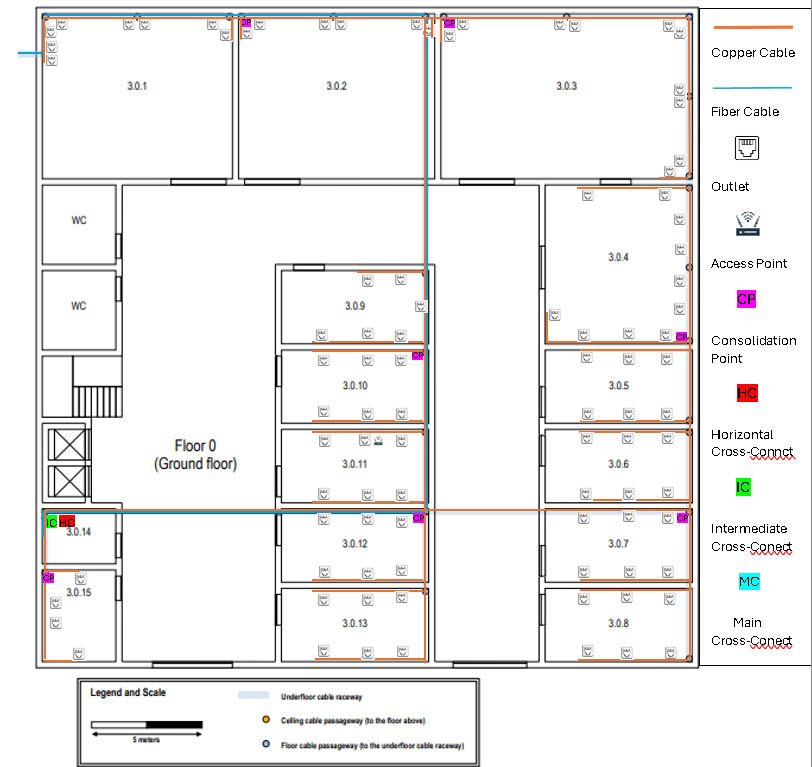
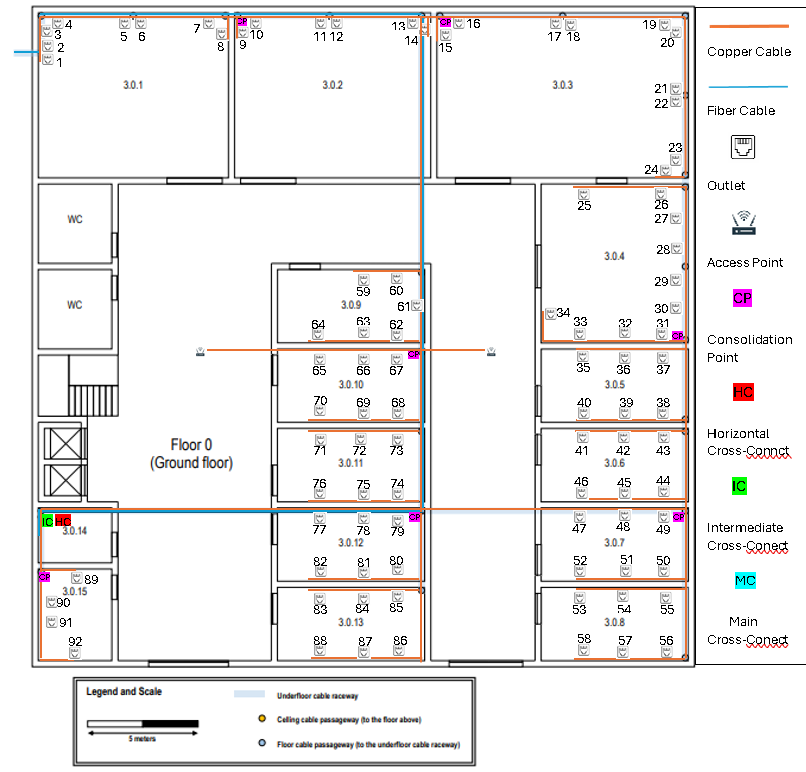
made some changes on the access points of building 3, also added exel file with all the measurements of the building, and made readme with all the information related to building 3

diff --git a/doc/Sprint_1/1230927/readMe.md b/doc/Sprint_1/1230927/readMe.md
@@ -1,0 +1,256 @@
+## Building 3 ##
+
+### General Information ###
+
+- The buildings 3, have the same horizontal dimensions, approximately, 30 x 30 meters.
+- A full wireless LAN (Wi-Fi) coverage is required for this building on both floors.
+
+
+## 1. Information ##
+
+### Floor 0 ###
+
+- The ground floor has an underfloor cable raceway connected to the external technical ditch.
+- Access to the underfloor cable raceway is available at points marked over the plan.
+- The ceiling height on this floor is four meters.
+- Room 3.0.14 is a storage area that may be used to house a cross-connect, no network outlets are required there, and the same applies to restrooms, halls, and corridors.
+- Rooms 3.0.1, 3.0.2, and 3.0.3 have specific purposes and the only network outlets required there are two near each floor cable passageway.
+- Elsewhere, the standard number of network outlets per area ratio is to be enforced.
+
+### Floor 1  ###
+
+- The ceiling height on this floor is three meters, but there is a removable dropped ceiling, placed 2.5 meters from the ground, covering this entire floor.
+- The empty space over the dropped ceiling is perfect to install cable raceways and wireless access-points.
+- Room 3.1.1 is a wireless only area, no network outlets are required, but on the other hand the wireless LAN coverage (Wi-Fi) should be highly effective here.
+- Shared areas and restrooms are not required to have network outlets, other rooms should be provided with the standard number of network outlets.
+- Room 3.1.8 is a storage area, no network outlets are required there as well, and it may be used to house a cross-connect and other network infrastructure hardware.
+
+
+## 2. Measurements ##
+
+**Excel with all the details about measurements**
+- [Download Measurements_Building3.xlsx](Measurements_Building3.xlsx)
+
+### Floor 0 ###
+
+![MeasurementsBuilding3_Floor0](MeasurementsBuilding3_floor0.png)
+
+| Rooms  | Area in m2 | Nº outlets |
+|--------|------------|------------|
+| 3.0.1  | 65.3       | 8          |
+| 3.0.2  | 66         | 6          |
+| 3.0.3  | 86.3       | 10         |
+| 3.0.4  | 47.6       | 10         |
+| 3.0.5  | 22.1       | 6          |
+| 3.0.6  | 22.1       | 6          |
+| 3.0.7  | 22.1       | 6          |
+| 3.0.8  | 22.1       | 6          |
+| 3.0.9  | 22.1       | 6          |
+| 3.0.10 | 22.1       | 6          |
+| 3.0.11 | 22.1       | 6          |
+| 3.0.12 | 22.1       | 6          |
+| 3.0.13 | 22.1       | 6          |
+| 3.0.14 | 8.3        | 0          |
+| 3.0.15 | 13.9       | 4          |
+
+***Total Outlets:*** 92
+
+### Floor 1 ###
+
+![MeasurementsBuilding3_Floor1](MeasurementsBuilding3_floor1.png)
+
+| Rooms  | Area in m2 | Nº outlets |
+|--------|------------|------------|
+| 3.1.1  | 25.49      | 0          |
+| 3.1.2  | 25.49      | 4          |
+| 3.1.3  | 84.11      | 4          |
+| 3.1.4  | 26.27      | 4          |
+| 3.1.5  | 42.05      | 4          |
+| 3.1.6  | 42.05      | 4          |
+| 3.1.7  | 42.05      | 4          |
+| 3.1.8  | 42.05      | 0          |
+| 3.1.9  | 42.05      | 4          |
+| 3.1.10 | 42.05      | 4          |
+| 3.1.11 | 42.05      | 4          |
+| 3.1.12 | 42.05      | 4          |
+| 3.1.13 | 42.05      | 4          |
+| 3.1.14 | 42.05      | 4          |
+| 3.1.15 | 42.05      | 4          |
+| 3.1.16 | 42.05      | 4          |
+| 3.1.17 | 42.05      | 4          |
+| 3.1.18 | 42.05      | 4          |
+| 3.1.19 | 42.05      | 4          |
+| 3.1.20 | 42.05      | 4          |
+
+
+***Total Outlets:*** 72
+
+## 3. Structured Cabling Schematic Plan ##
+
+### Floor 0 ###
+
+![CableStructure_Building3_Floor0](CableStruct_Building3_floor0.png)
+
+
+### Floor 1 ###
+
+![CableStructure_Building3_Floor1](CableStruct_Building3_floor1.png)
+
+## 4. Inventory ##
+
+## ***Cables*** ##
+
+As defined by the team in the Planning section:
+- copper cables will be **Category 7 (CAT7) Copper Cables**.
+- fiber cables will be **Monomode Fiber Cables**.
+
+The maximum distance of the cables is **90 meters**.
+
+**The Horizontal Cross-Connect (HCC) and the Consolidation Point (CP) must be placed 1.7m from the floor.** 
+
+**The outlets must be placed 0.7m from the floor.**
+
+These details are already included in the cable measurements.
+
+
+### Floor 0 ###
+
+***CAT7 Copper Cables:***
+
+- From HC to CP's: 211.5m
+- From CP's to Outlets: 615.7m
+- From HC to Acess Point: 74.3m
+
+Total Copper Cable Length: 901.5m
+
+***Monomode Fiber Cable:***
+
+**From Outside to ICC:** 62.7m
+- **From ICC to HCC (Room 3.0.14):** 1m
+
+Total Fiber Cable: 63.7m
+
+
+### Floor 1 ###
+
+***CAT7 Copper Cables:***
+
+- From HC to CP's: 147.1m
+- From CP's to Outlets: 343.7m
+- From HC to Acess Point: 46.2m
+
+Total Copper Cable Length: 537m
+
+***Monomode Fiber Cable:***
+
+**From ICC to HCC (Room 3.1.8):** 6.2m
+
+Total Fiber Cable: 6.2m
+
+## ***Patch Panels*** ##
+
+The patch panels must comply with the cable specifications. 
+Since we chose CAT7 cables, all patch panels will also be CAT7.
+Similarly, as we selected Monomode Fiber Cable, the Fiber Patch Panels must be compatible with Monomode as well.
+
+### Floor 0 ###
+
+- 1 patch panel of 12 ports (ICC)(Room 3.0.14);
+- 2 patch panels of 12 ports (HCC)(Room 3.0.14) (Copper patch panel and Fiber patch panel);
+- 2 patch panels of 12 ports (CP's)(Rooms 3.0.3, 3.0.15);
+- 5 patch panel of 24 ports (CP's)(Rooms 3.0.2, 3.0.4, 3.0.7, 3.0.10, 3.0.12);
+
+#### Total: **4 patch panels of 12 ports** and **5 patch panels of 24 ports**
+
+
+### Floor 1 ###
+
+- 2 patch panels of 12 ports (HCC)(Room 3.0.14) (Copper patch panel and Fiber patch panel);
+- 3 patch panels of 12 ports (CP's)(Rooms 3.1.3, 3.1.5, 3.1.6);
+- 3 patch panel of 24 ports (CP's)(Rooms 3.1.11, 3.1.13, 3.1.17);
+
+#### Total: **4 patch panels of 12 ports** and **3 patch panels of 24 ports**
+
+
+## ***Racks*** ##
+
+### Floor 0 ###
+
+For the **Intermediate Cross-Connect:**
+
+- **1U** for 1 fiber patch panel of 12 ports;
+- **1U** switch;
+- **2U** an additional 100% over dimensioning.
+
+#### **Total**: 4U
+
+For the **Horizontal Cross-Connect:**
+
+- **1U** for 1 copper patch panel of 12 ports;
+- **1U** for 1 fiber patch panel of 12 ports;
+- **1U** switch;
+- **3U** an additional 100% over dimensioning.
+
+#### **Total**: 6U
+
+For each of the 2 **Consolidation Point (12 ports)**
+
+- **1U** for 1 copper patch panel of 12 ports;
+- **1U** switch;
+- **2U** an additional 100% over dimensioning.
+
+#### **Total**: 4U
+
+For each of the 5 **Consolidation Point (24 ports)**
+
+- **1U** for 1 copper patch panel of 24 ports;
+- **1U** switch;
+- **2U** an additional 100% over dimensioning.
+
+#### **Total**: 4U
+
+
+
+### Floor 1 ###
+
+For the **Horizontal Cross-Connect:**
+
+- **1U** for 1 copper patch panel of 12 ports;
+- **1U** for 1 fiber patch panel of 12 ports;
+- **1U** switch;
+- **3U** an additional 100% over dimensioning.
+
+#### **Total**: 6U
+
+For each of the 3 **Consolidation Point (12 ports)**
+
+- **1U** for 1 copper patch panel of 12 ports;
+- **1U** switch;
+- **2U** an additional 100% over dimensioning.
+
+#### **Total**: 4U
+
+For the 3 **Consolidation Point (24 ports)**
+
+- **1U** for 1 copper patch panel of 24 ports;
+- **1U** switch;
+- **2U** an additional 100% over dimensioning.
+
+#### **Total**: 4U
+
+
+## **TOTAL INVENTORY** ##
+
+- Outlets: 164
+- CAT7 Copper Cable (m): 1438.5
+- Monomode Fiber Cable (m): 69.9
+- Intermediate Cross-Connect (ICC): 1
+- Horizontal Cross-Connect (HCC): 2
+- Consolidation Points (CP with 12 ports) : 5
+- Consolidation Points (CP with 24 ports): 8
+- Access Point (AP): 4
+- Copper Patch Panels (12 ports): 7
+- Fiber Patch Panels (12 ports): 3
+- Copper Patch Panels (24 ports): 8
+- Telecommunications Enclosures: 16
+
